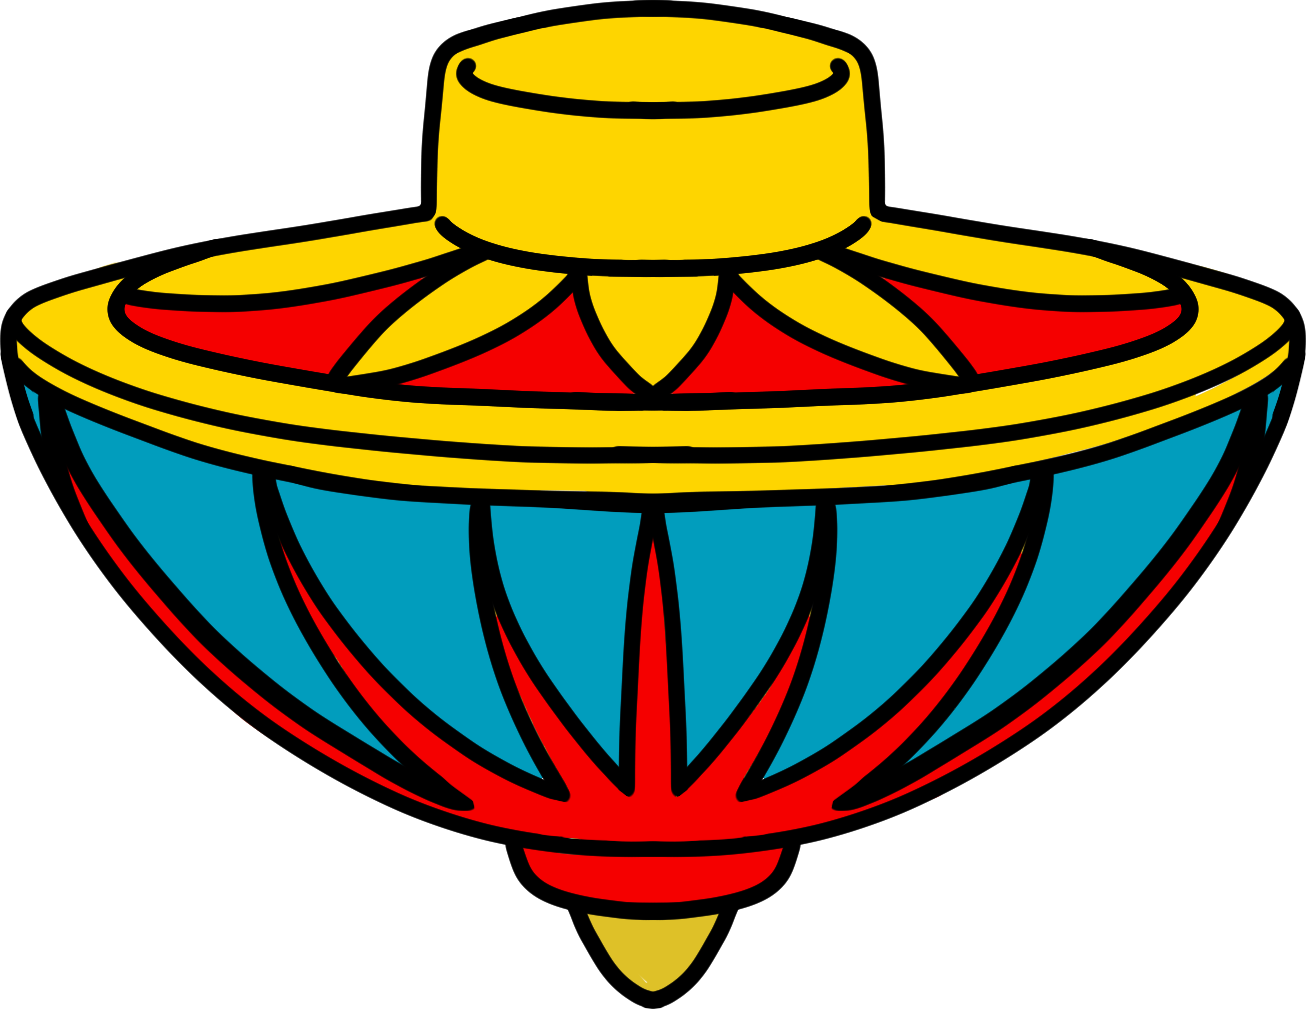
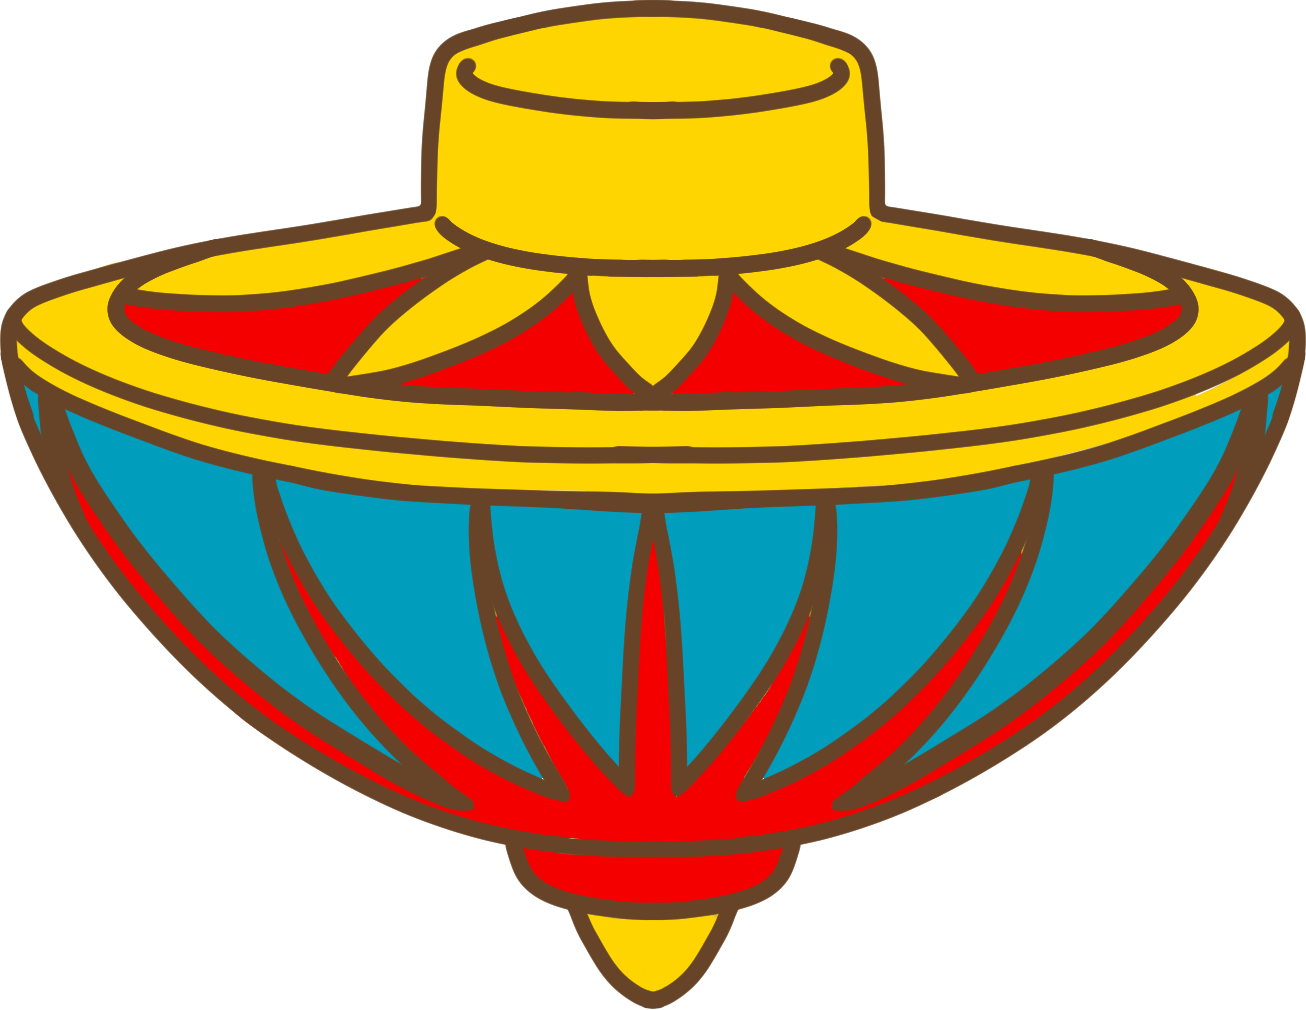
[ADD] Top rotation

Changed region(s): [[0.0, 0.0, 1.0, 1.0]]

diff --git a/Assets/Project/Scripts/Toupie.cs b/Assets/Project/Scripts/Toupie.cs
@@ -1,3 +1,6 @@
+using JetBrains.Annotations;
+using System;
+using System.Collections;
 using Unity.VisualScripting;
 using UnityEngine;
 using UnityEngine.Events;
@@ -5,11 +8,19 @@ using UnityEngine.Events;
 public class Toupie : MonoBehaviour
 {
     [SerializeField] Animator animator;
+    [SerializeField] GameObject toupieParent;
     [SerializeField] float baseSpeed = 2f;
     private float currentSpeed;
     [SerializeField] float maxSpeed = 10f;
     public UnityEvent ToupieStop;
     public UnityEvent ToupieStart;
+    [SerializeField]
+    private float amplitude = 10.0f;
+
+    [SerializeField]
+    private float frequency = 2.0f;
+    private bool fall = false;
+    private float angle = 0;
 
     public bool debugLogs = false;
     public void StartToupie()
@@ -28,6 +39,7 @@ public class Toupie : MonoBehaviour
         if(target <= 0)
         {
             ToupieStop.Invoke();
+            fall = true;
             // Play anim ou autre chose;
         }
         currentSpeed = target;
@@ -35,6 +47,21 @@ public class Toupie : MonoBehaviour
         if(debugLogs)
             Debug.Log("Toupie speed:" + currentSpeed);
     }
+
+    private void Update()
+    {
+        if(toupieParent && fall == false)
+        {
+            angle = Mathf.Sin(Time.time * frequency) * amplitude * 1 / currentSpeed;
+            Quaternion rotation = Quaternion.AngleAxis(angle, Vector3.forward);
+            toupieParent.transform.rotation = Quaternion.identity * rotation;
+        }
+    }
+
+/*    IEnumerable Fall()
+    {
+
+    }*/
 
     private float CalcToupieVal(float min, float max, float inVal)
     {

diff --git a/Assets/Project/Scripts/PlayerControls.cs b/Assets/Project/Scripts/PlayerControls.cs
@@ -95,7 +95,7 @@ public class PlayerControls : MonoBehaviour
         PlayerTwoWeak = true;
         Debug.Log("Player two is weak");
         yield return new WaitForSeconds(WeakTime);
-        PlayerOneWeak = false;
+        PlayerTwoWeak = false;
         Debug.Log("Player two isnt weak");
         yield return null;
 
